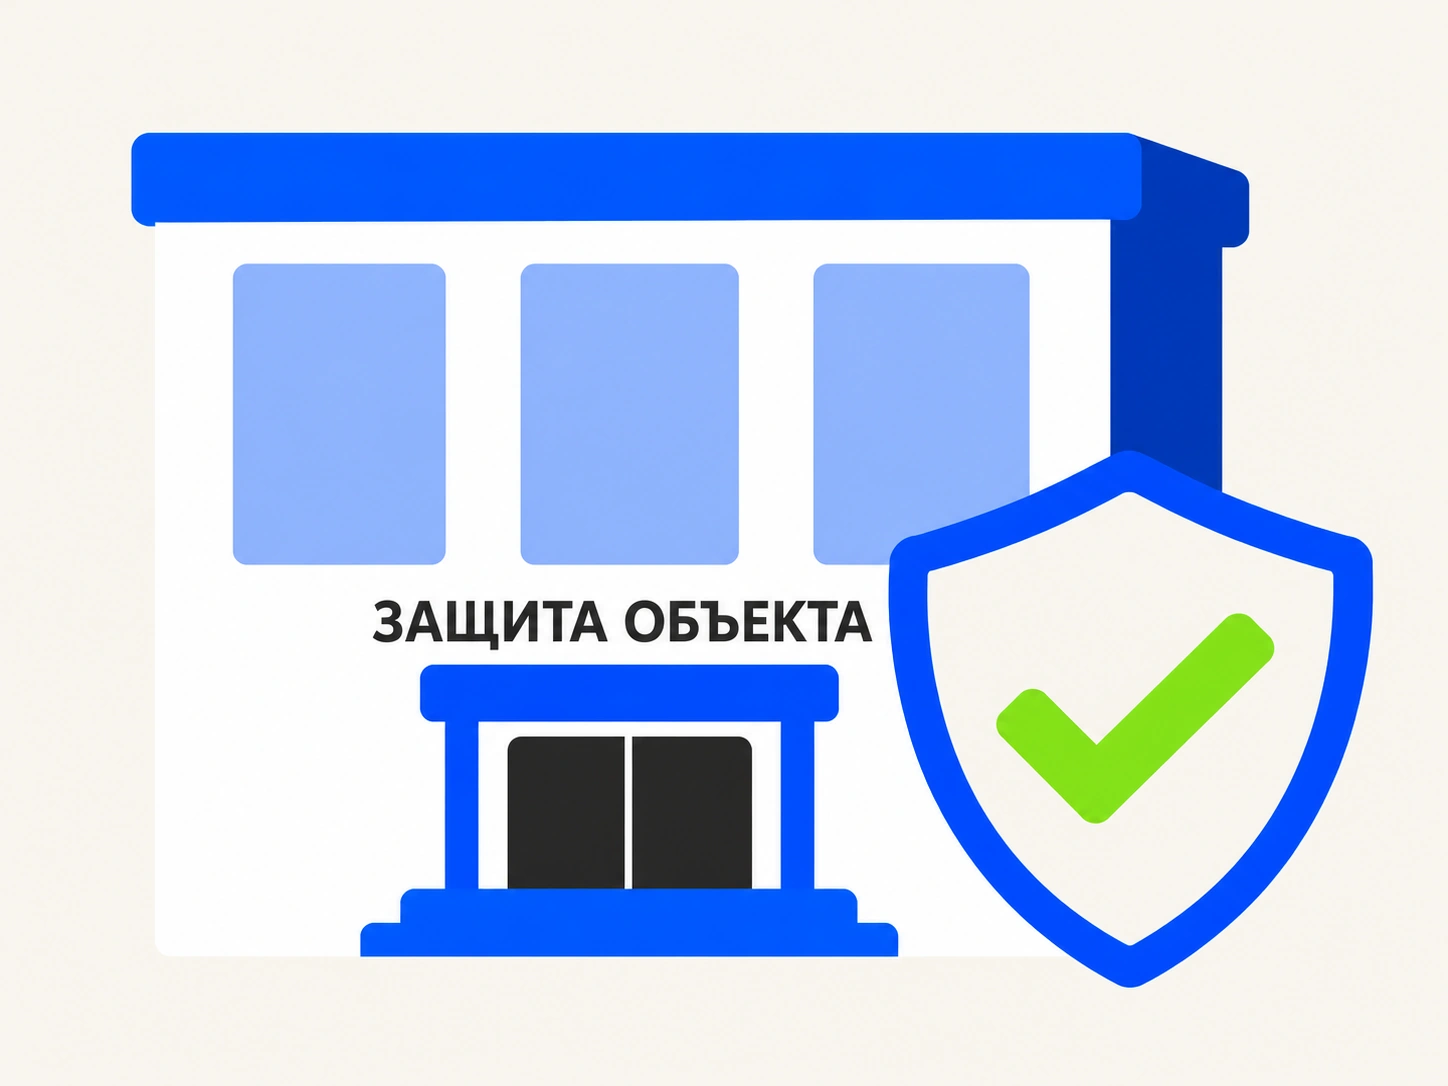
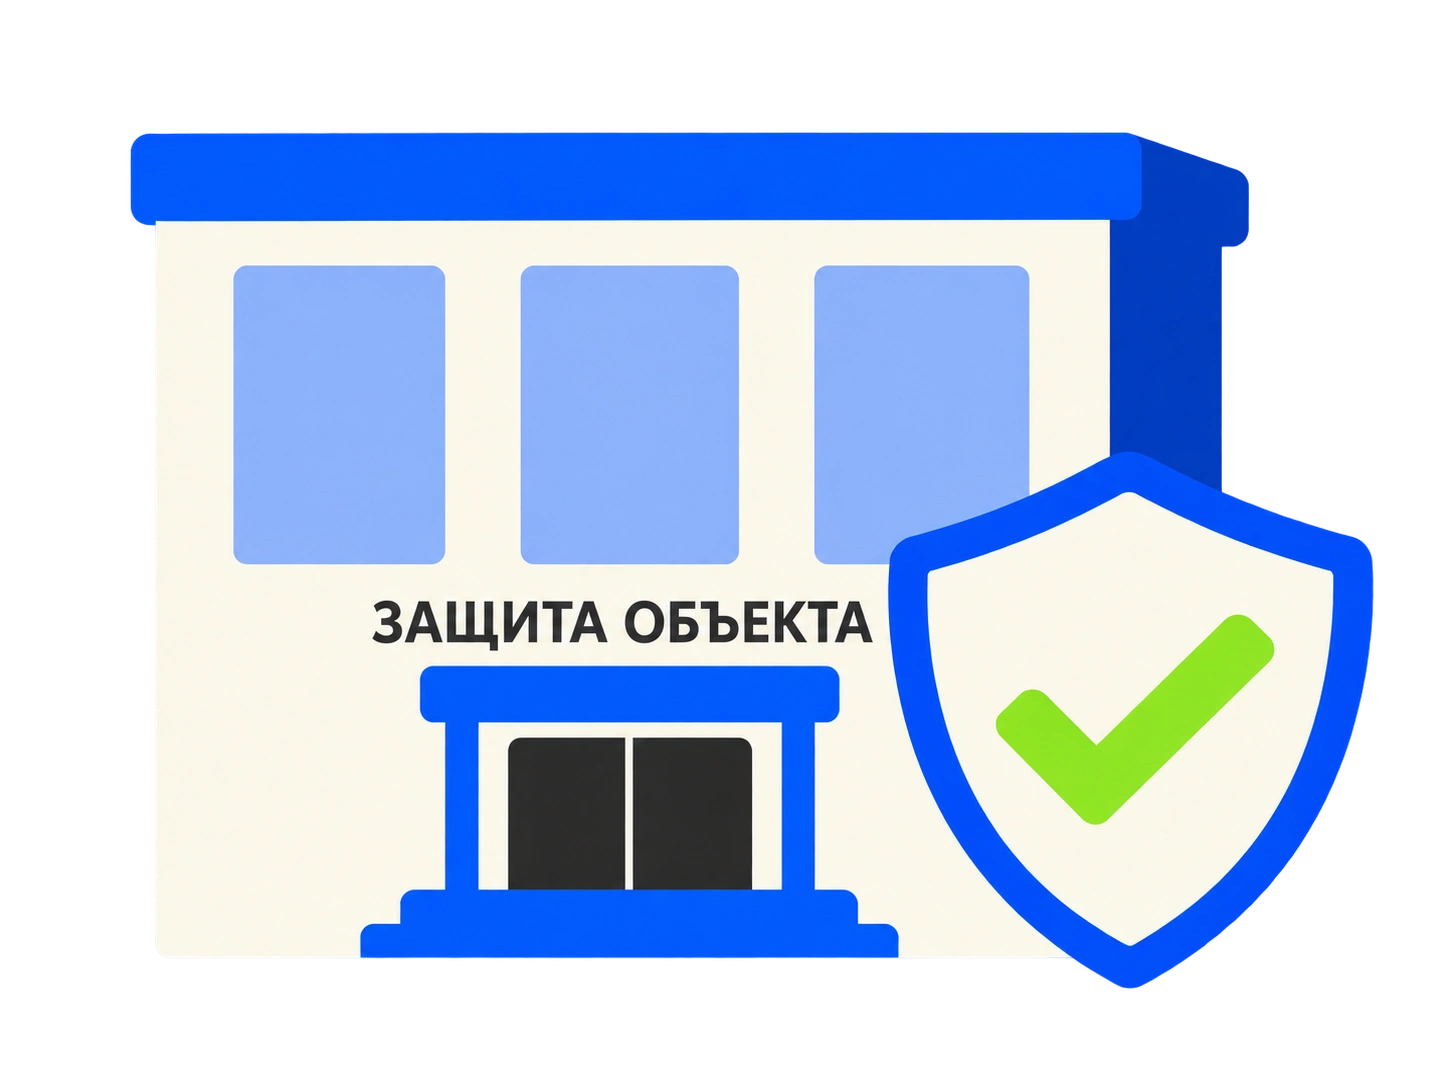
fix: religion image

diff --git a/src/components/illustrations/SecurityIllustration.jsx b/src/components/illustrations/SecurityIllustration.jsx
@@ -11,7 +11,7 @@ const illustrationSources = {
   industry: '/images/illustrations/industry.webp',
   energy: '/images/illustrations/energy.webp',
   agriculture: '/images/illustrations/agriculture.webp',
-  religion: '/images/illustrations/overview.webp',
+  religion: '/images/illustrations/religion.webp',
   social: '/images/illustrations/social.webp',
   act: '/images/illustrations/inspection-act.webp',
   passport: '/images/illustrations/security-passport.webp',
